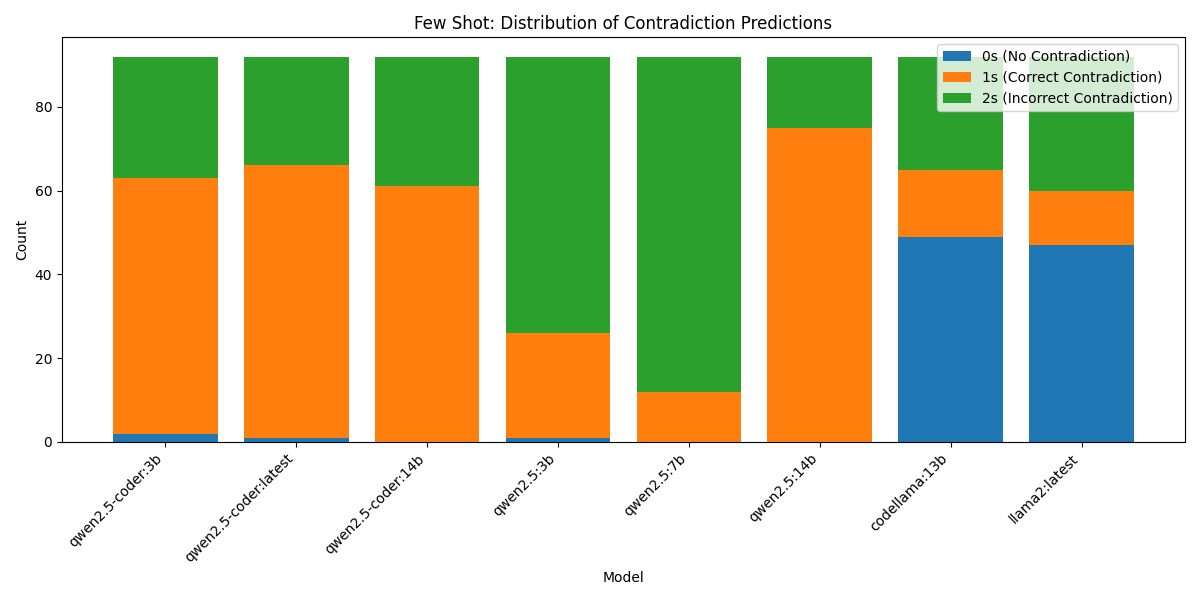
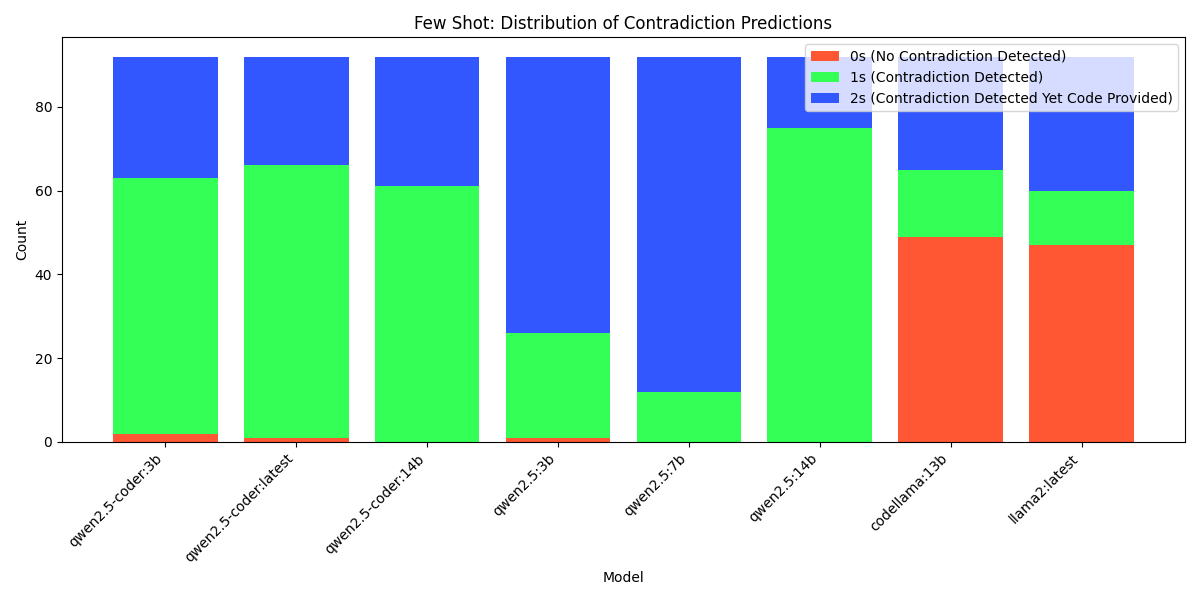
Results updated

diff --git a/diagram_generation.py b/diagram_generation.py
@@ -24,9 +24,9 @@ df = pd.DataFrame(data)
 
 # Plot for Zero Shot
 plt.figure(figsize=(12, 6))
-plt.bar(df["Model"], df["Zero_Shot_0s"], label="0s (No Contradiction)")
-plt.bar(df["Model"], df["Zero_Shot_1s"], bottom=df["Zero_Shot_0s"], label="1s (Correct Contradiction)")
-plt.bar(df["Model"], df["Zero_Shot_2s"], bottom=df["Zero_Shot_0s"] + df["Zero_Shot_1s"], label="2s (Incorrect Contradiction)")
+plt.bar(df["Model"], df["Zero_Shot_0s"], color='#FF5733', label="0s (No Contradiction Detected)")
+plt.bar(df["Model"], df["Zero_Shot_1s"], bottom=df["Zero_Shot_0s"], color='#33FF57', label="1s (Contradiction Detected)")
+plt.bar(df["Model"], df["Zero_Shot_2s"], bottom=df["Zero_Shot_0s"] + df["Zero_Shot_1s"], color='#3357FF', label="2s (Contradiction Detected Yet Code Provided)")
 plt.xlabel("Model")
 plt.ylabel("Count")
 plt.title("Zero Shot: Distribution of Contradiction Predictions")
@@ -38,9 +38,9 @@ plt.close()
 
 # Plot for Few Shot
 plt.figure(figsize=(12, 6))
-plt.bar(df["Model"], df["Few_Shot_0s"], label="0s (No Contradiction)")
-plt.bar(df["Model"], df["Few_Shot_1s"], bottom=df["Few_Shot_0s"], label="1s (Correct Contradiction)")
-plt.bar(df["Model"], df["Few_Shot_2s"], bottom=df["Few_Shot_0s"] + df["Few_Shot_1s"], label="2s (Incorrect Contradiction)")
+plt.bar(df["Model"], df["Few_Shot_0s"], color='#FF5733', label="0s (No Contradiction Detected)")
+plt.bar(df["Model"], df["Few_Shot_1s"], bottom=df["Few_Shot_0s"], color='#33FF57', label="1s (Contradiction Detected)")
+plt.bar(df["Model"], df["Few_Shot_2s"], bottom=df["Few_Shot_0s"] + df["Few_Shot_1s"], color='#3357FF', label="2s (Contradiction Detected Yet Code Provided)")
 plt.xlabel("Model")
 plt.ylabel("Count")
 plt.title("Few Shot: Distribution of Contradiction Predictions")
